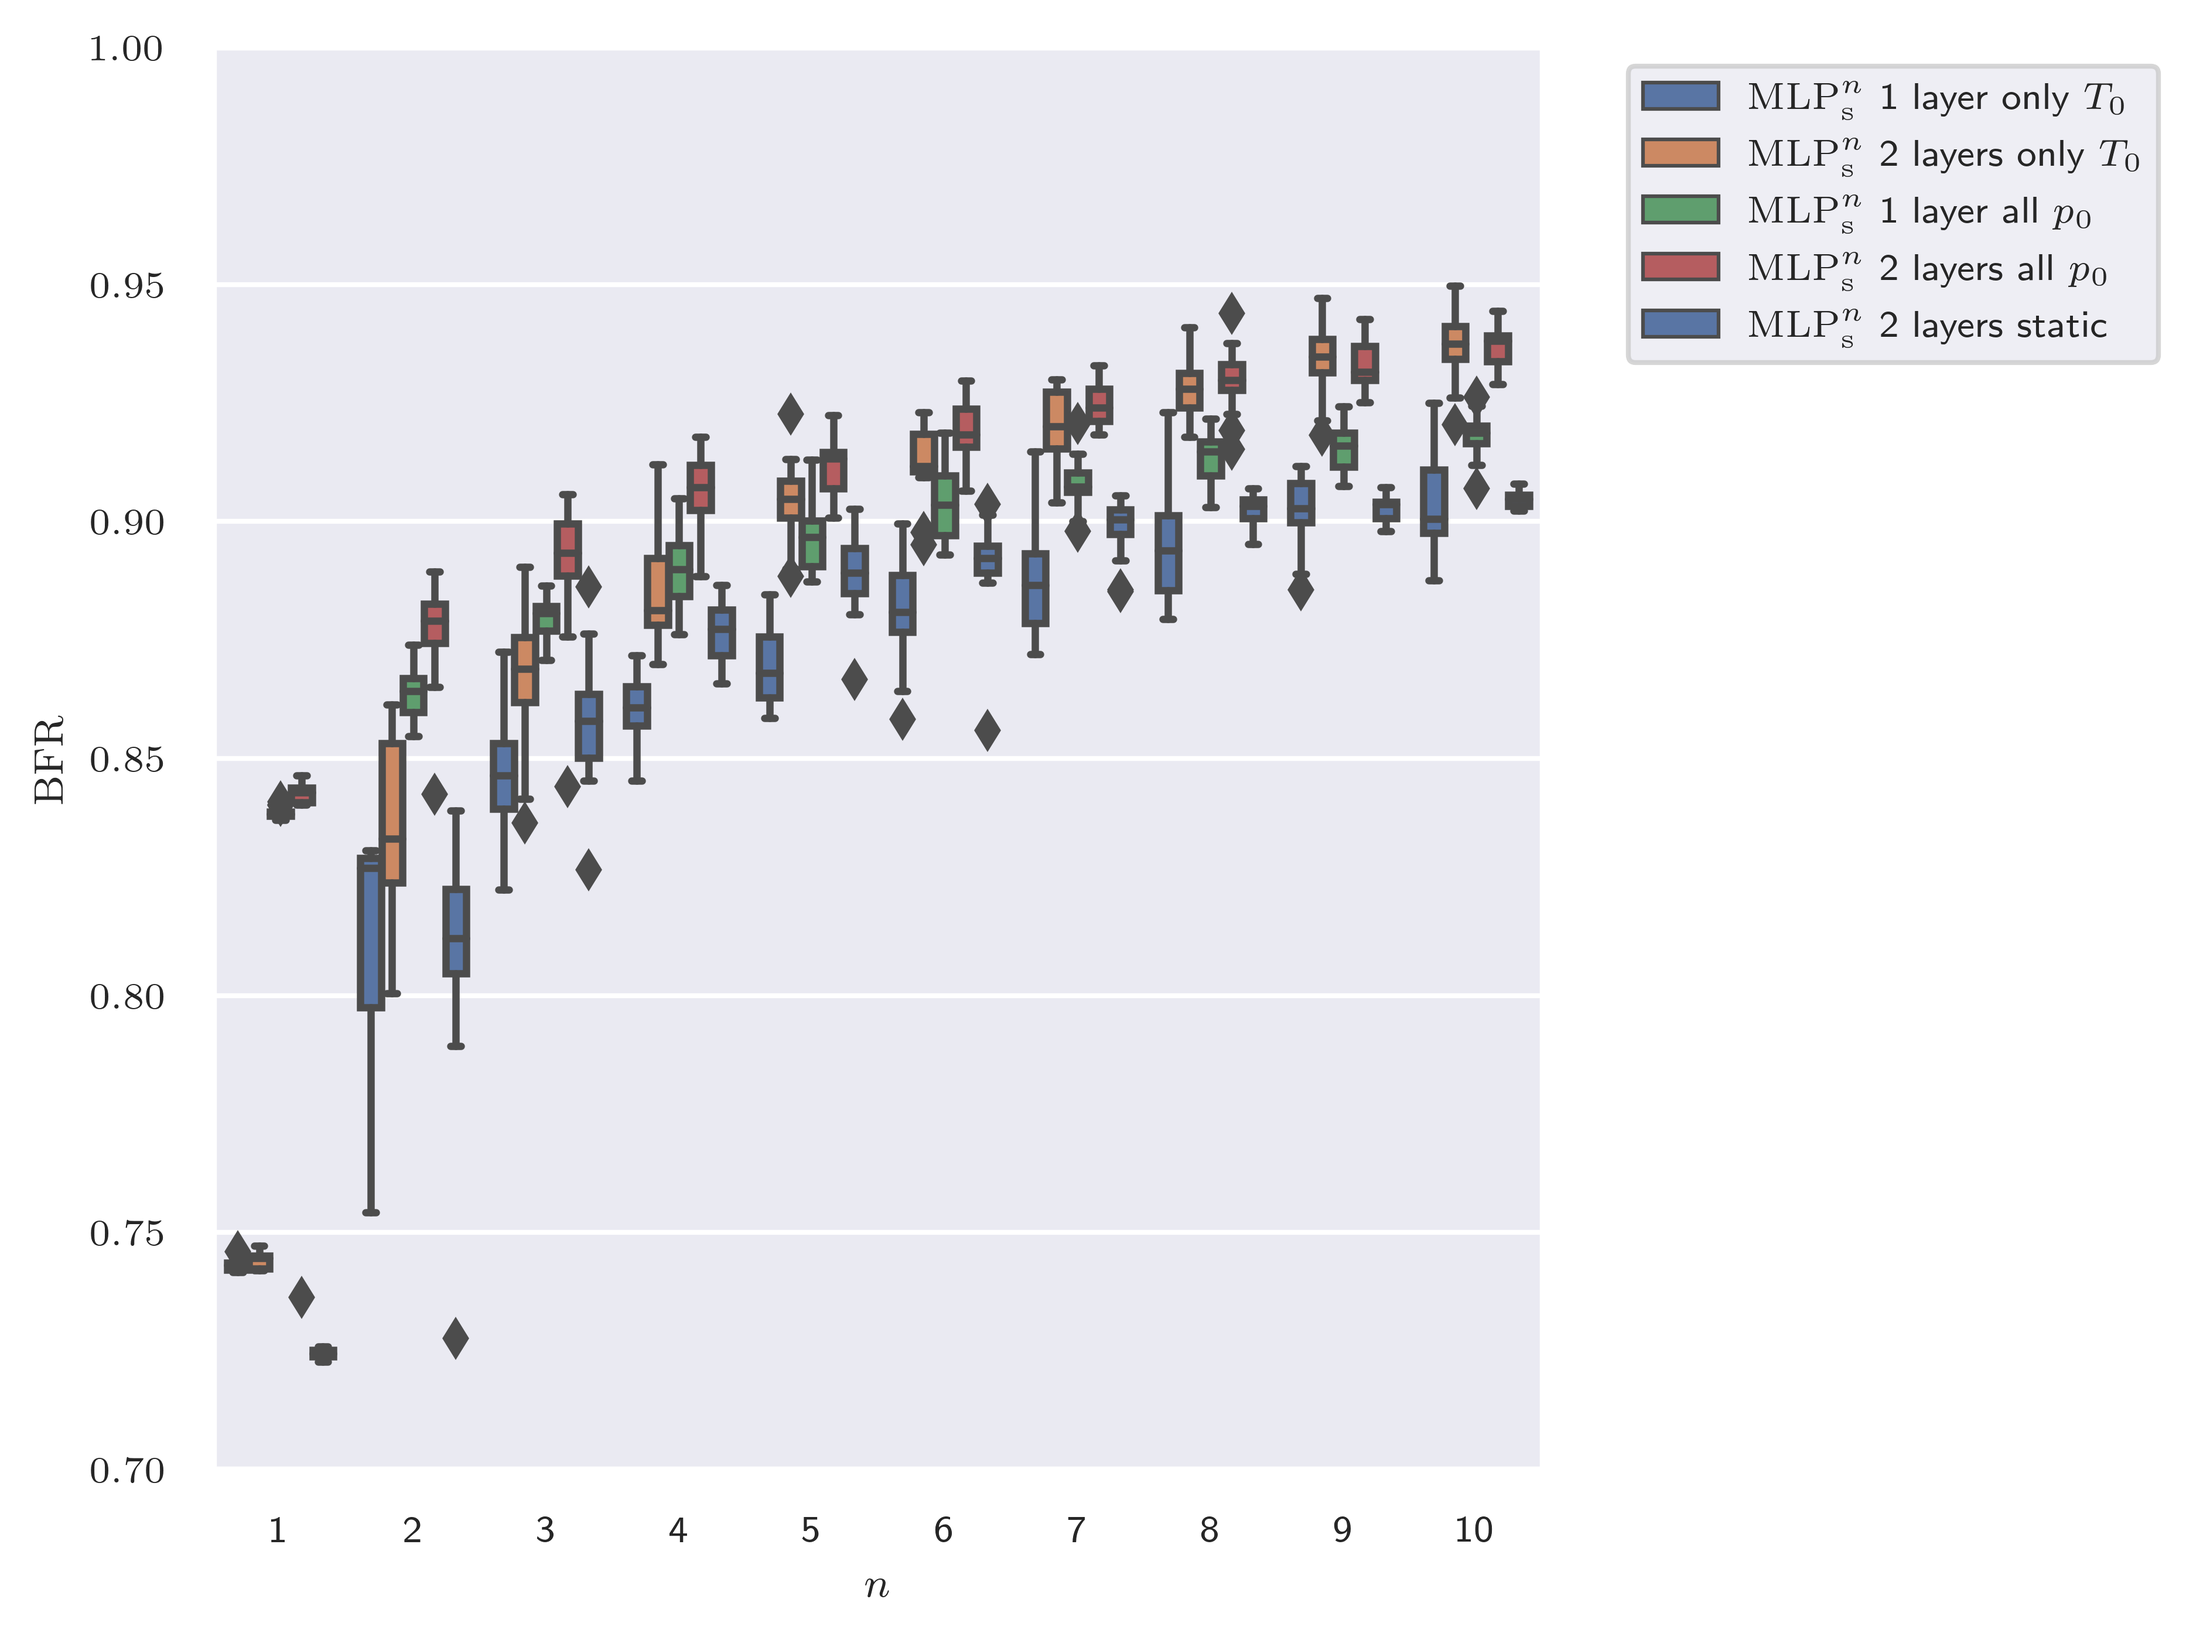
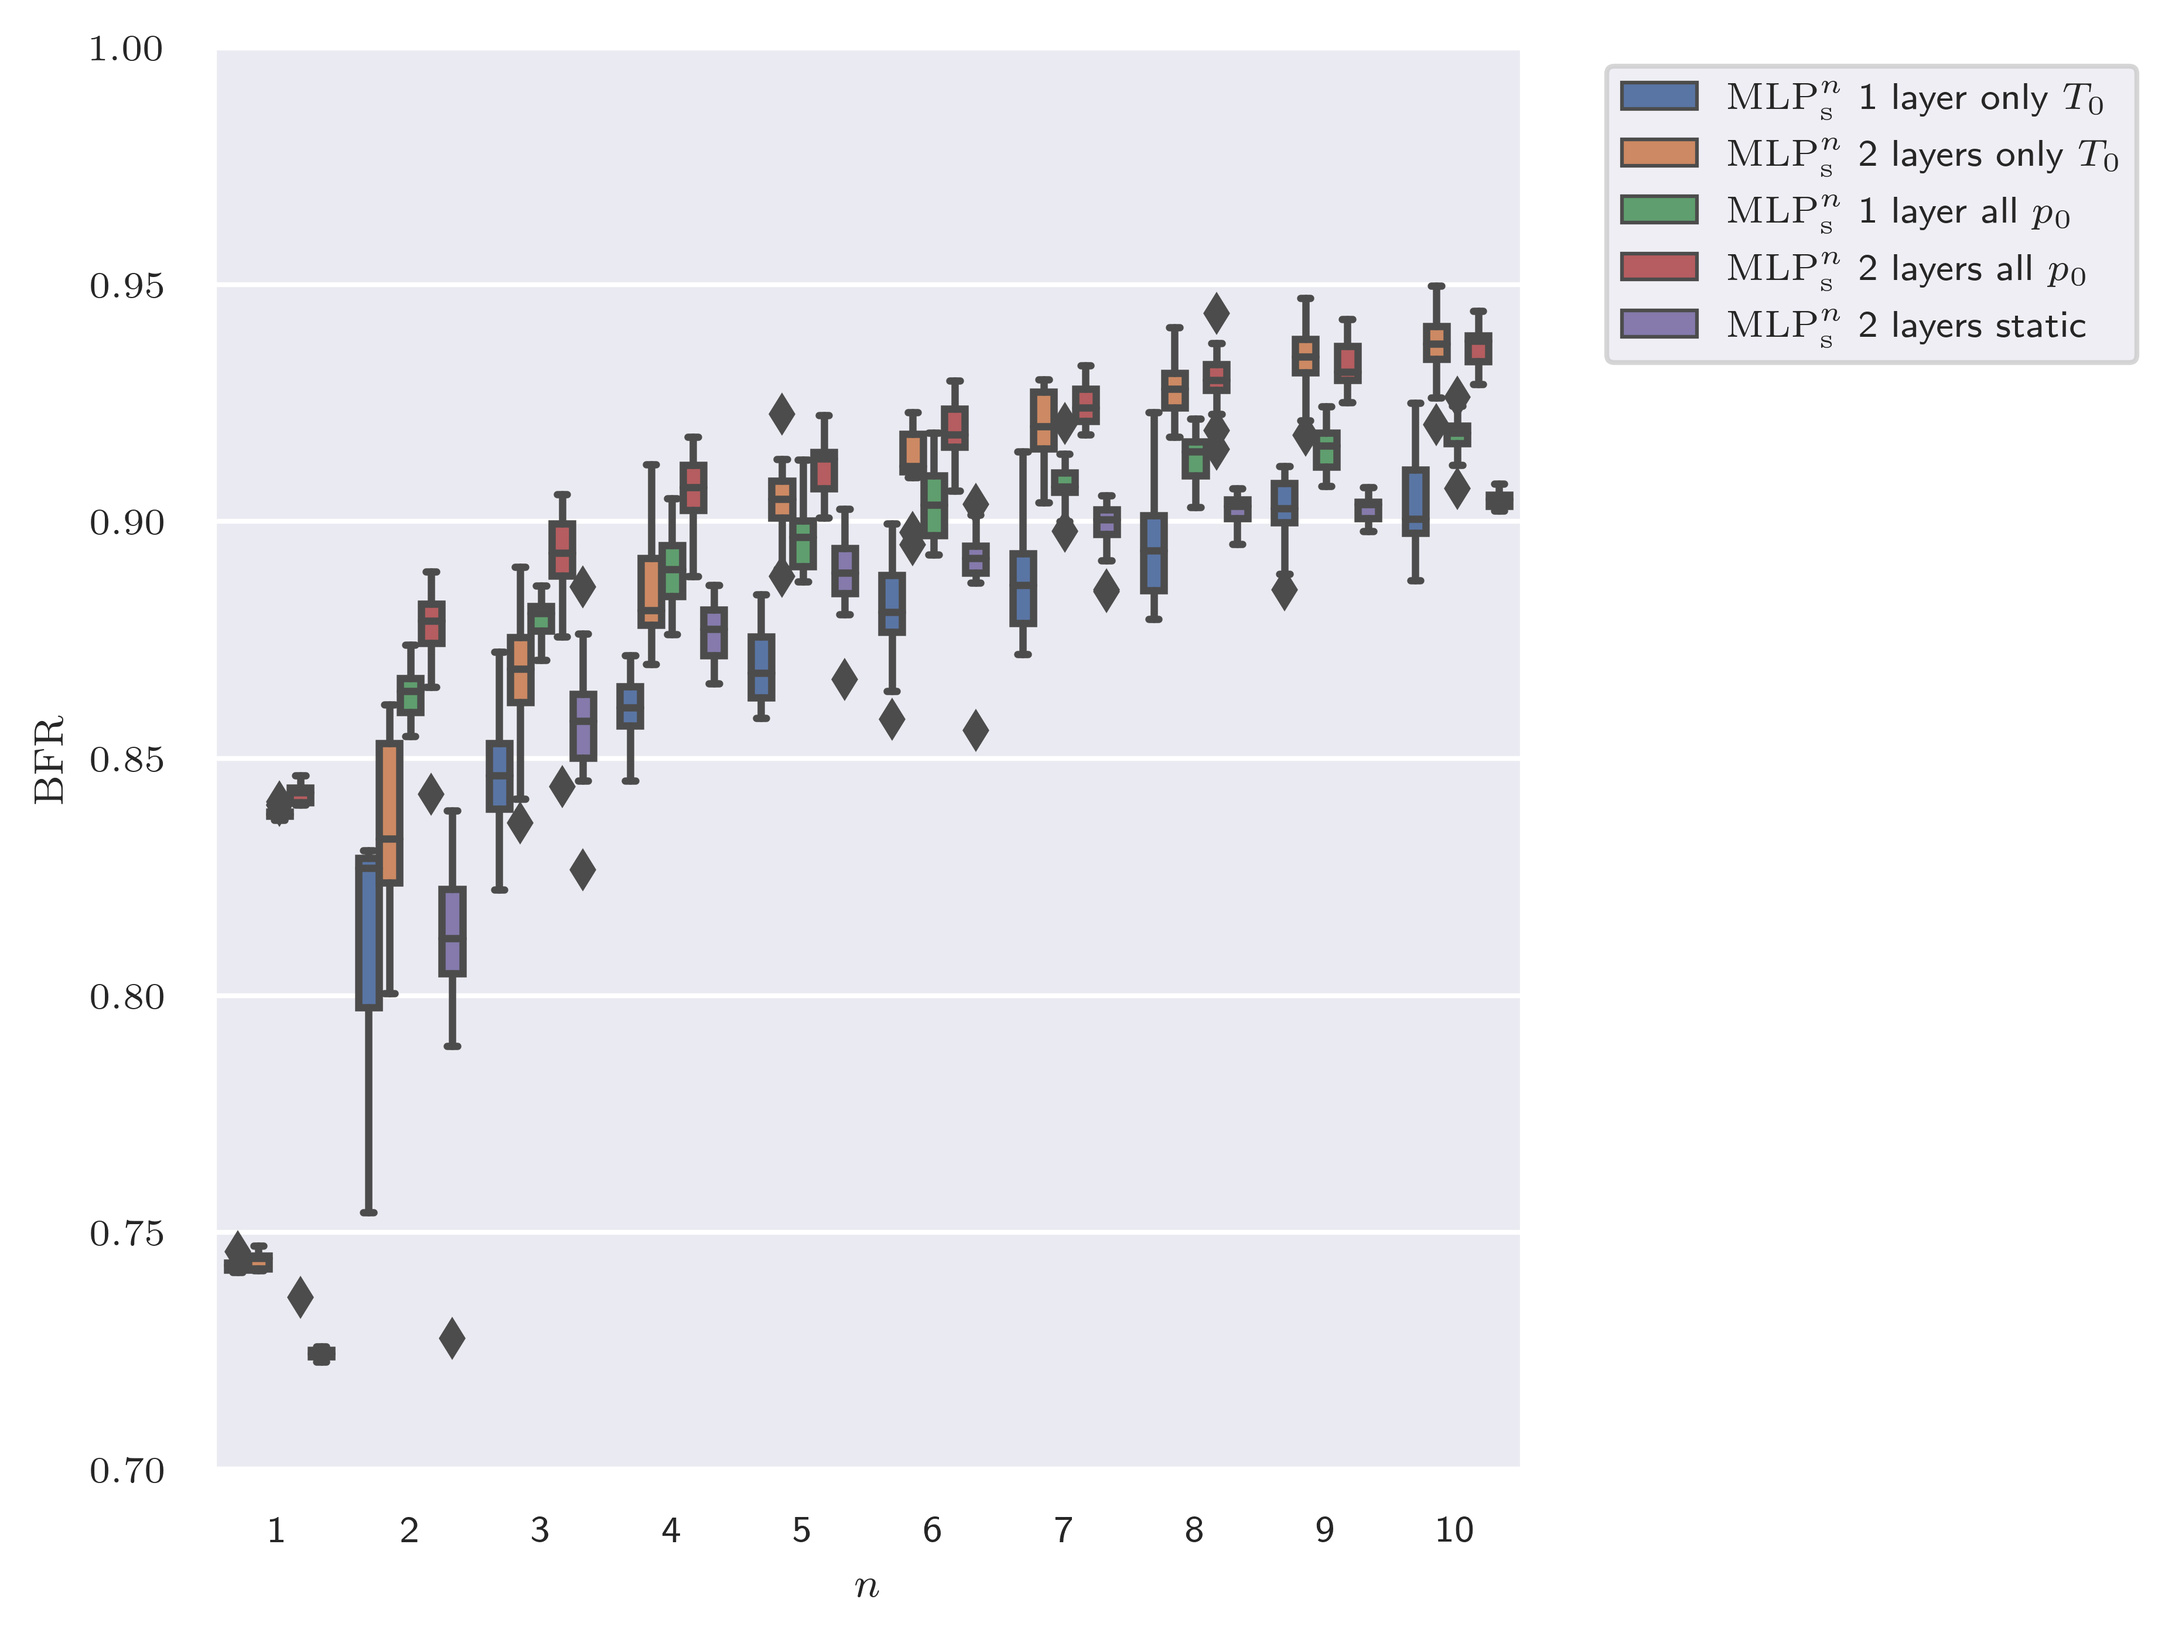
commit
plots

diff --git a/Experiments/Kolloq22/Plot_Di_predict_orig_plan.py b/Experiments/Kolloq22/Plot_Di_predict_orig_plan.py
@@ -96,12 +96,24 @@ Di = ['Durchmesser_innen']
 Di_est = ['Durchmesser_innen_est']
 
 
+data = pkl.load(open('data_doubleExp.pkl','rb'))
+data_train = data['data_train']
+data_val = data['data_test']
+
+data_train = data_train.loc[data_train.index.isin(list(range(1313,1323))+\
+                                         list(range(1473,1483)))]
+
+data_val = data_val.loc[data_val.index.isin(list(range(1313,1323))+\
+                                         list(range(1473,1483)))]
+
+
+
 plt.close('all')
 color_map = sns.color_palette()
 fig,ax = plt.subplots(5,1)
 
-kwargs_true = {'linestyle':'None','marker':'d','markersize':4}
-kwargs_est = {'linestyle':'None','marker':'o','markersize':2}
+kwargs_true = {'linestyle':'None','marker':'d','markersize':6}
+kwargs_est = {'linestyle':'None','marker':'o','markersize':4}
 
 i = 0
 
@@ -110,32 +122,36 @@ for M in Models:
     M_train = M['results_train']['pred']
     M_val = M['results_val']['pred']
     
-    M_train = M_train.loc[(M_train['Charge']==131) | (M_train['Charge']==144)]
-    M_val = M_val.loc[(M_val['Charge']==131) | (M_val['Charge']==144)]
+    M_train = M_train.loc[M_train.index.isin(list(range(1313,1323))+\
+                                             list(range(1473,1483)))]
+    M_val = M_val.loc[M_val.index.isin(list(range(1313,1323))+ \
+                                         list(range(1473,1483)))]
     
     
-    ax[i].plot(M_train.index,
+    ax[i].plot(data_train['T_wkz_0'].values,
                M_train[Di].values,
                color='grey',**kwargs_true)
-    ax[i].plot(M_train.index,
+    ax[i].plot(data_train['T_wkz_0'].values,
                M_train[Di_est].values,
                color = color_map[i],**kwargs_est)
     
-    ax[i].plot(M_val.index,
+    ax[i].plot(data_val['T_wkz_0'].values,
                M_val[Di].values,
                color='red',**kwargs_true)
-    ax[i].plot(M_val.index,
+    ax[i].plot(data_val['T_wkz_0'].values,
                M_val[Di_est].values,
-               color = color_map[i],**kwargs_est)
+               color = color_map[i],linestyle='None',marker='x',
+               markersize=4)
 
     i = i + 1
 
 for a in ax:
-    a.set_xlim([0,100])#([1800,1900])
-    a.set_ylim([27.2,28])
+    # a.set_xlim([0,100])#([1800,1900])
+    # a.set_ylim([27.2,28])
     a.set_xlabel(None)
     a.set_ylabel(None)
-    a.set_xticklabels([])
+
+[a.set_xticklabels([]) for a in ax[0:4]]
 
 
 fig.set_size_inches((15/2.54,12/2.54))

diff --git a/Experiments/Kolloq22/PlotResults.py b/Experiments/Kolloq22/PlotResults.py
@@ -31,7 +31,7 @@ fig,ax = plt.subplots(1,1)
 # hue=res_best['model'],legend=False,ax=ax)
 
 stripplot = sns.boxplot(x = res['complexity'],y=res['BFR'],hue=res['model'],
-                          dodge=True,ax=ax,palette=color[0:4])
+                          dodge=True,ax=ax,palette=color[0:5])
 
 legend = stripplot.get_legend()
 legend.set_title(None)
@@ -56,6 +56,6 @@ ax.set_ylim([0.7,1])
 # ax.set_xticks(range(1,11))
 
 plt.tight_layout()
-plt.savefig('Results_Deckel_Di_MLP_zoom.png', bbox_inches='tight',dpi=600)
+plt.savefig('Results_Deckel_Di_MLP.png', bbox_inches='tight',dpi=600)
 
 # %% Plot charge 131 144 (same setpoints)
